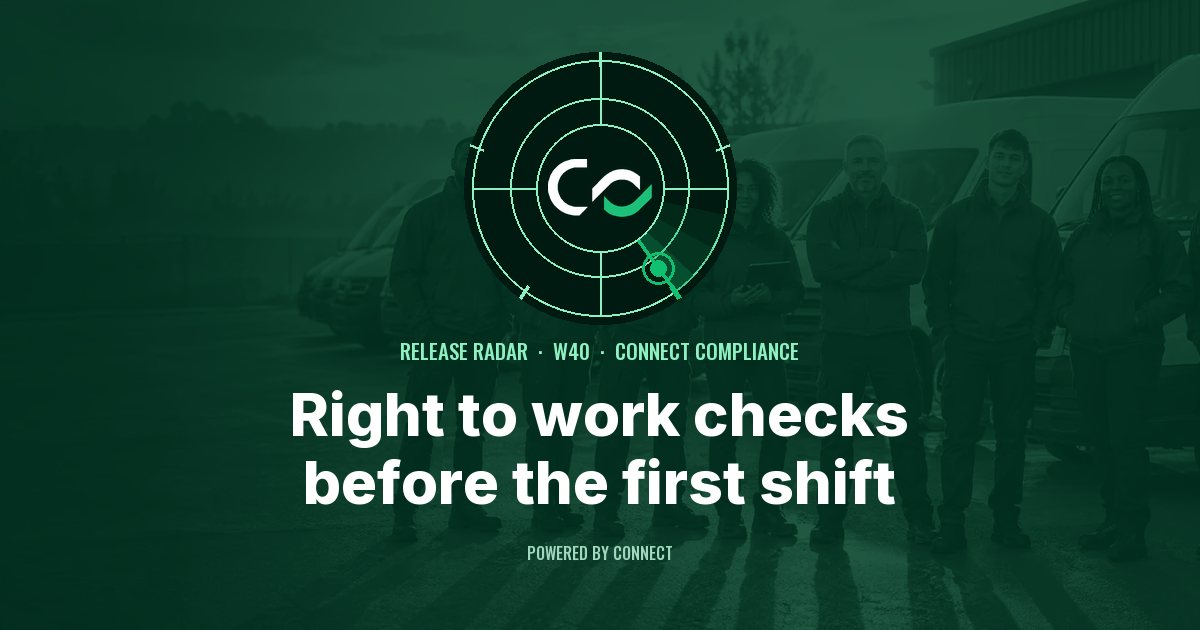
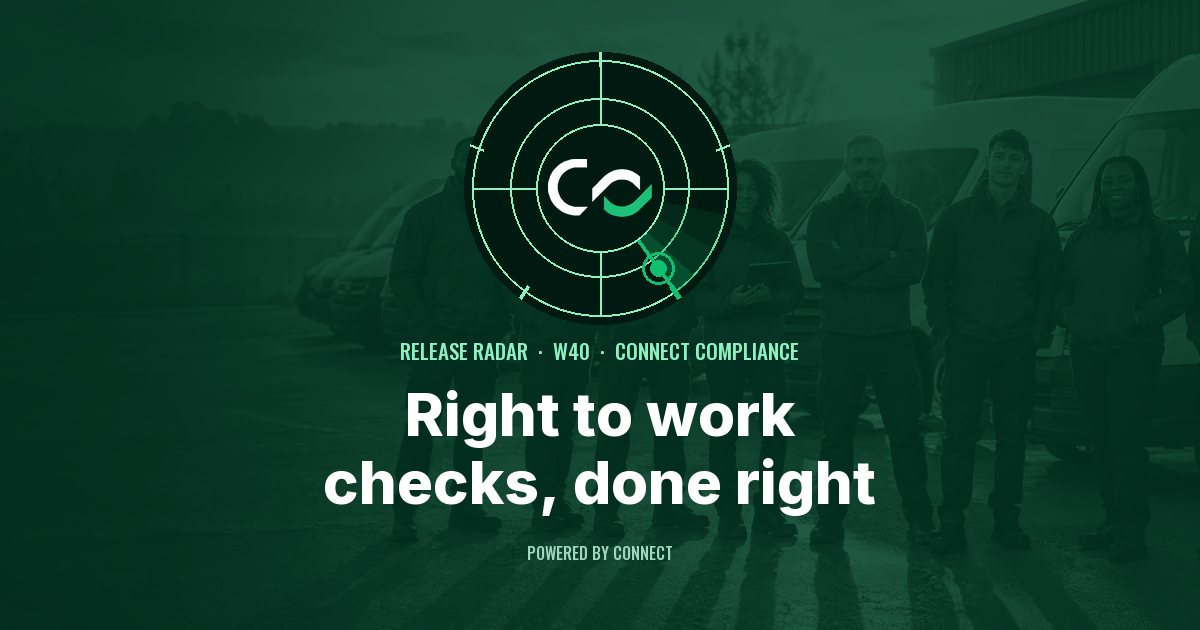
Release Radar: 3 issue(s)

Changed region(s): [[0.2467, 0.6032, 0.7708, 0.8143]]

diff --git a/netradyne/index.html b/netradyne/index.html
@@ -571,7 +571,7 @@ html.lenis,html.lenis body{height:auto}
       <p class="signoff"><span class="sig"><span class="by" data-m="sign">Dan Towler</span><span class="org">Connect</span></span><span class="sig"><span class="by" data-m="sign">Shaun Weeks</span><span class="org">Commercial Director</span></span></p>
       <p class="tenant">Already on Connect? Station managers and owners will find it under <b>People › Netradyne</b>.</p>
     </div>
[3 lines of base64/hex data omitted]
   </div>
 </footer>

diff --git a/front-door/index.html b/front-door/index.html
@@ -571,7 +571,7 @@ html.lenis,html.lenis body{height:auto}
       <p class="signoff"><span class="sig"><span class="by" data-m="sign">Dan Towler</span><span class="org">Connect</span></span><span class="sig"><span class="by" data-m="sign">Shaun Weeks</span><span class="org">Commercial Director</span></span></p>
       <p class="tenant">Already on Connect? Owners will find it under <b>Admin › Recruitment Front Door</b>.</p>
     </div>
[3 lines of base64/hex data omitted]
   </div>
 </footer>

diff --git a/index.html b/index.html
@@ -205,7 +205,7 @@ html.lenis,html.lenis body{height:auto}
         <h1 data-m="dia">Release Radar</h1>
         <p class="lede" data-m="words">One feature a week, already live, shown on the real product. Every line checked against the code.</p>
       </div>
[2 lines of base64/hex data omitted]
     </div>
     <form class="filters" aria-label="Filter by pillar" onsubmit="return false">
       <input type="radio" name="p" id="f-all" checked><label for="f-all">All</label><input type="radio" name="p" id="f-people"><label for="f-people"><b>02</b>People</label><input type="radio" name="p" id="f-compliance"><label for="f-compliance"><b>03</b>Compliance</label><input type="radio" name="p" id="f-performance"><label for="f-performance"><b>05</b>Performance</label>
@@ -214,10 +214,10 @@ html.lenis,html.lenis body{height:auto}
 </header>
 <main>
   <section class="latest wrap" aria-label="Latest issue">
-    <a class="feat" href="right-to-work/" data-pillar="compliance"><div class="bbeam" aria-hidden="true"><i></i></div><span class="meta"><span>Latest · W40</span><span>Connect Compliance</span><span>3 Oct 2026</span></span><h2>Right to work checks before the first shift</h2><p>Every new driver needs a recorded right to work check, British drivers included. Until it passes, they can’t enter Training, be promoted or be rostered.</p><span class="go">Read W40</span></a>
+    <a class="feat" href="right-to-work/" data-pillar="compliance"><div class="bbeam" aria-hidden="true"><i></i></div><span class="meta"><span>Latest · W40</span><span>Connect Compliance</span><span>3 Oct 2026</span></span><h2>Right to work checks, done right</h2><p>Every new driver needs a recorded right to work check, British drivers included. Until it passes, they can’t enter Training, be promoted or be rostered.</p><span class="go">Read W40</span></a>
   </section>
   <section class="list wrap" aria-label="All issues">
-    <div class="month"><h3>October 2026</h3><a class="row" href="right-to-work/" data-pillar="compliance"><span class="wk">40</span><span><b>Right to work checks before the first shift</b><br><span>The Home Office check, recorded and locked before anyone drives.</span></span><span class="pill">Compliance</span></a></div><div class="month"><h3>September 2026</h3><a class="row" href="front-door/" data-pillar="people"><span class="wk">39</span><span><b>Indeed Automation &amp; Booking System</b><br><span>Applicants book themselves in; Connect nudges, reminds, and counts who came.</span></span><span class="pill">People</span></a><a class="row" href="netradyne/" data-pillar="performance"><span class="wk">39</span><span><b>Netradyne camera events, driver by driver</b><br><span>Netradyne events ranked by who to coach first, named via the rota, and mapped to the spots that keep repeating.</span></span><span class="pill">Performance</span></a></div>
+    <div class="month"><h3>October 2026</h3><a class="row" href="right-to-work/" data-pillar="compliance"><span class="wk">40</span><span><b>Right to work checks, done right</b><br><span>The Home Office check, recorded and locked before anyone drives.</span></span><span class="pill">Compliance</span></a></div><div class="month"><h3>September 2026</h3><a class="row" href="front-door/" data-pillar="people"><span class="wk">39</span><span><b>Indeed Automation &amp; Booking System</b><br><span>Applicants book themselves in; Connect nudges, reminds, and counts who came.</span></span><span class="pill">People</span></a><a class="row" href="netradyne/" data-pillar="performance"><span class="wk">39</span><span><b>Netradyne camera events, driver by driver</b><br><span>Netradyne events ranked by who to coach first, named via the rota, and mapped to the spots that keep repeating.</span></span><span class="pill">Performance</span></a></div>
     <p class="empty">Nothing on this pillar yet.</p>
   </section>
 </main>

diff --git a/right-to-work/index.html b/right-to-work/index.html
@@ -5,15 +5,15 @@
 <meta name="viewport" content="width=device-width,initial-scale=1">
 <meta name="robots" content="noindex,nofollow">
 <meta name="theme-color" content="#003020">
-<title>Right to work checks before the first shift · Connect Release Radar</title>
+<title>Right to work checks, done right · Connect Release Radar</title>
 <meta name="description" content="Every new driver needs a recorded right to work check, British drivers included. Until it passes, they can’t enter Training, be promoted or be rostered.">
 <meta property="og:type" content="article">
-<meta property="og:title" content="Right to work checks before the first shift">
+<meta property="og:title" content="Right to work checks, done right">
 <meta property="og:description" content="An owner records the check by a Home Office method. Pass works only when nothing is missing.">
 <meta property="og:image" content="https://centralplanningunitwops.github.io/connect-radar/right-to-work/og-w40-right-to-work.jpg">
 <meta property="og:image:width" content="1200">
 <meta property="og:image:height" content="630">
-<meta property="og:image:alt" content="Release Radar W40: Right to work checks before the first shift">
+<meta property="og:image:alt" content="Release Radar W40: Right to work checks, done right">
 <meta name="twitter:card" content="summary_large_image">
[1 lines of base64/hex data omitted]
 <script>document.documentElement.className+=" js";setTimeout(function(){if(!window.__mo)document.documentElement.className+=" mo-off"},2500)</script>
@@ -510,7 +510,7 @@ html.lenis,html.lenis body{height:auto}
[1 lines of base64/hex data omitted]
       <div class="ttl">
         <p class="label">Release Radar · W40 · 3 OCT 2026</p>
-        <h1 data-m="dia">Right to work checks before the first shift</h1>
+        <h1 data-m="dia">Right to work checks, done right</h1>
[1 lines of base64/hex data omitted]
         <p class="stand" data-m="words">Every new driver needs a recorded right to work check, British drivers included. Until it passes, they can’t enter Training, be promoted or be rostered.</p>
       </div>
